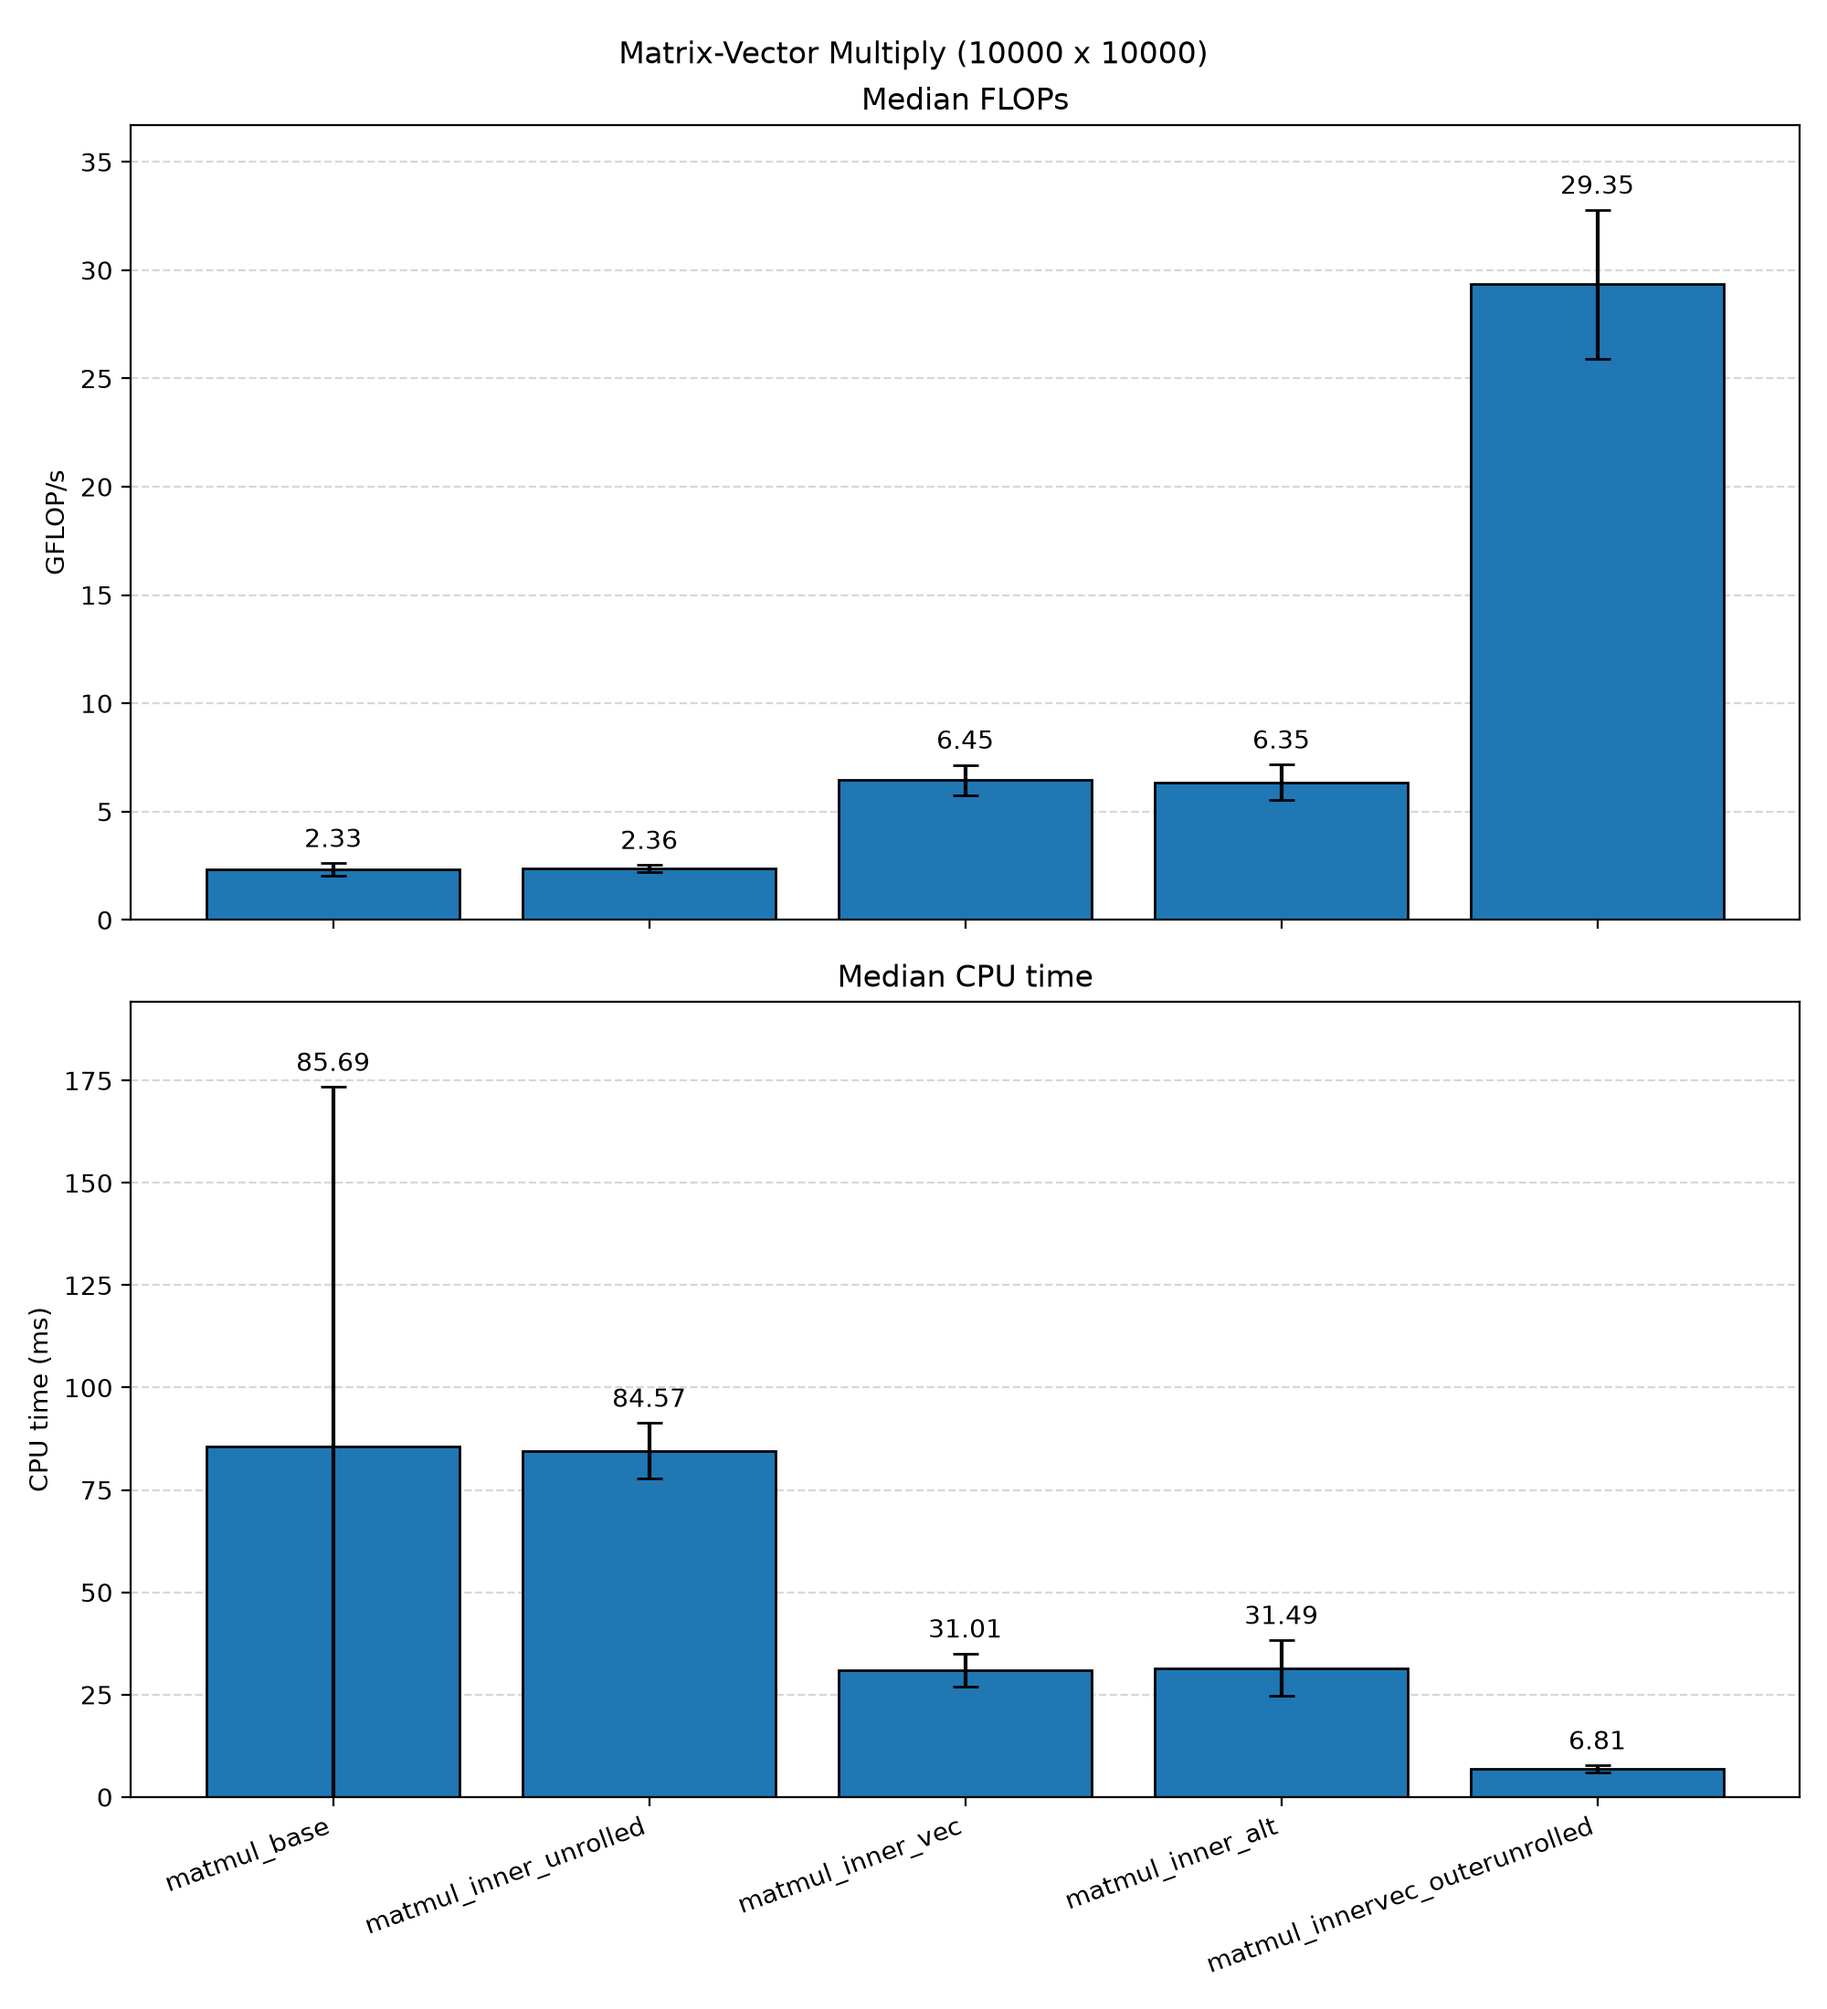
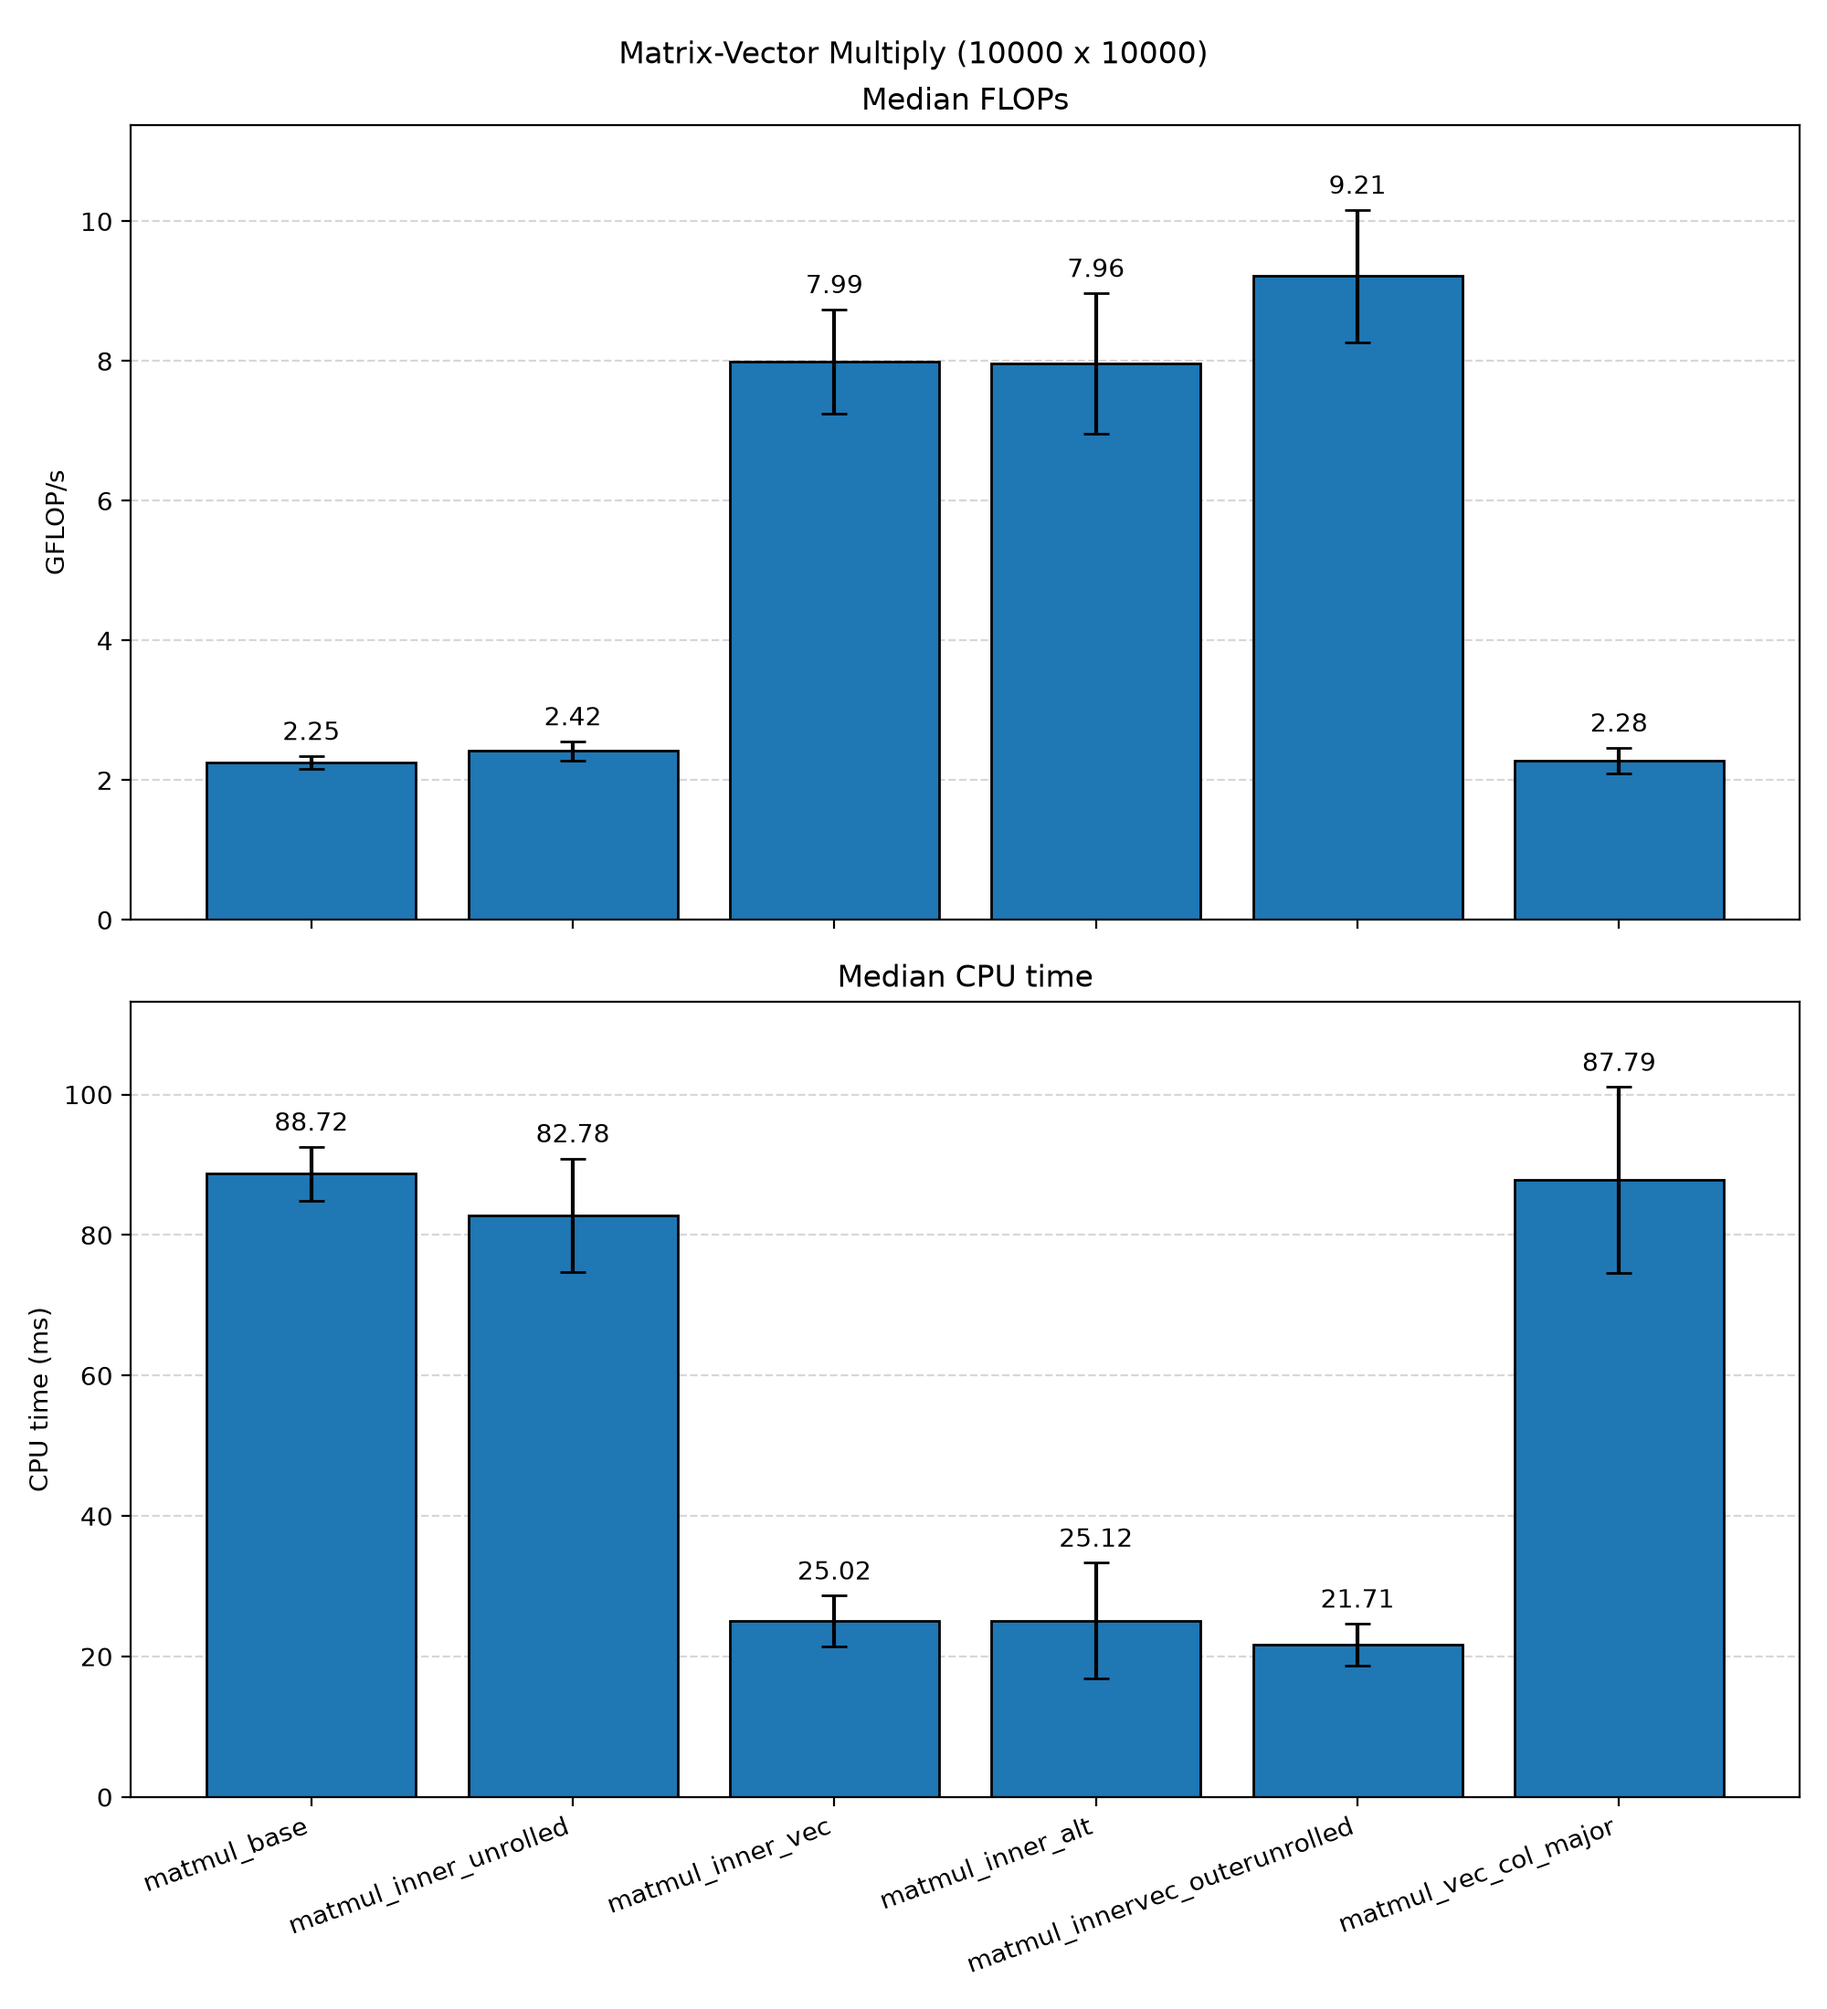
Tests + outer vectorization + fix other funcs

diff --git a/src/matrix_vec.cpp b/src/matrix_vec.cpp
@@ -1,6 +1,17 @@
 #include <immintrin.h>
 #include "matrix_vec.h"
 
+#include <vector>
+
+// inline __attribute__((always_inline)) float horzsum256(__m256 s) {
+//     // https://stackoverflow.com/questions/13219146/how-to-sum-m256-horizontally
+//     auto s2 = _mm256_permute2f128_ps(s , s , 1);
+//     s = _mm256_add_ps(s, s2);
+//     s = _mm256_hadd_ps(s, s);
+//     s = _mm256_hadd_ps(s, s);
+//     return _mm_cvtss_f32(_mm256_castps256_ps128(s));
+// }
+
 // Base unvectorized implementation
 void matmul_base(const float* A, const float* x, float* y, int m, int n) {
     for (int i = 0; i < m; i++) {
@@ -49,9 +60,11 @@ void matmul_inner_vec(const float* A, const float* x, float* y, int m, int n) {
         }
 
         // Horizontal sum of 8 elements
-        __m256 t = _mm256_hadd_ps(sum, sum);
-        t = _mm256_hadd_ps(t, t);
-        y[i] = _mm_cvtss_f32(_mm256_castps256_ps128(t));
+        auto s2 = _mm256_permute2f128_ps(sum, sum, 1);
+        sum = _mm256_add_ps(sum, s2);
+        sum = _mm256_hadd_ps(sum, sum);
+        sum = _mm256_hadd_ps(sum, sum);
+        y[i] = _mm_cvtss_f32(_mm256_castps256_ps128(sum));
 
         // Scalar remainder
         for (; j < n; j++) {
@@ -72,9 +85,11 @@ void matmul_inner_alt(const float* A, const float* x, float* y, int m, int n) {
             sum = _mm256_fmadd_ps(a_vec, x_vec, sum);
         }
 
-        __m256 t = _mm256_hadd_ps(sum, sum);
-        t = _mm256_hadd_ps(t, t);
-        y[i] = _mm_cvtss_f32(_mm256_castps256_ps128(t));
+        auto s2 = _mm256_permute2f128_ps(sum, sum, 1);
+        sum = _mm256_add_ps(sum, s2);
+        sum = _mm256_hadd_ps(sum, sum);
+        sum = _mm256_hadd_ps(sum, sum);
+        y[i] = _mm_cvtss_f32(_mm256_castps256_ps128(sum));
 
         for (; j < n; j++) {
             y[i] += A[i * n + j] * x[j];
@@ -107,23 +122,23 @@ void matmul_innervec_outerunrolled(const float* A, const float* x, float* y, int
             s8 = _mm256_fmadd_ps(_mm256_loadu_ps(&A[(row+7)*n+col]), vx, s8);
         }
 
-        __m256 t1 = _mm256_hadd_ps(s1, s1); t1 = _mm256_hadd_ps(t1, t1);
-        __m256 t2 = _mm256_hadd_ps(s2, s2); t2 = _mm256_hadd_ps(t2, t2);
-        __m256 t3 = _mm256_hadd_ps(s3, s3); t3 = _mm256_hadd_ps(t3, t3);
-        __m256 t4 = _mm256_hadd_ps(s4, s4); t4 = _mm256_hadd_ps(t4, t4);
-        __m256 t5 = _mm256_hadd_ps(s5, s5); t5 = _mm256_hadd_ps(t5, t5);
-        __m256 t6 = _mm256_hadd_ps(s6, s6); t6 = _mm256_hadd_ps(t6, t6);
-        __m256 t7 = _mm256_hadd_ps(s7, s7); t7 = _mm256_hadd_ps(t7, t7);
-        __m256 t8 = _mm256_hadd_ps(s8, s8); t8 = _mm256_hadd_ps(t8, t8);
+        auto t1 = _mm256_permute2f128_ps(s1, s1, 1); s1 = _mm256_add_ps(s1, t1); s1 = _mm256_hadd_ps(s1, s1); s1 = _mm256_hadd_ps(s1, s1);
+        auto t2 = _mm256_permute2f128_ps(s2, s2, 1); s2 = _mm256_add_ps(s2, t2); s2 = _mm256_hadd_ps(s2, s2); s2 = _mm256_hadd_ps(s2, s2);
+        auto t3 = _mm256_permute2f128_ps(s3, s3, 1); s3 = _mm256_add_ps(s3, t3); s3 = _mm256_hadd_ps(s3, s3); s3 = _mm256_hadd_ps(s3, s3);
+        auto t4 = _mm256_permute2f128_ps(s4, s4, 1); s4 = _mm256_add_ps(s4, t4); s4 = _mm256_hadd_ps(s4, s4); s4 = _mm256_hadd_ps(s4, s4);
+        auto t5 = _mm256_permute2f128_ps(s5, s5, 1); s5 = _mm256_add_ps(s5, t5); s5 = _mm256_hadd_ps(s5, s5); s5 = _mm256_hadd_ps(s5, s5);
+        auto t6 = _mm256_permute2f128_ps(s6, s6, 1); s6 = _mm256_add_ps(s6, t6); s6 = _mm256_hadd_ps(s6, s6); s6 = _mm256_hadd_ps(s6, s6);
+        auto t7 = _mm256_permute2f128_ps(s7, s7, 1); s7 = _mm256_add_ps(s7, t7); s7 = _mm256_hadd_ps(s7, s7); s7 = _mm256_hadd_ps(s7, s7);
+        auto t8 = _mm256_permute2f128_ps(s8, s8, 1); s8 = _mm256_add_ps(s8, t8); s8 = _mm256_hadd_ps(s8, s8); s8 = _mm256_hadd_ps(s8, s8);
 
-        y[row] = _mm_cvtss_f32(_mm256_castps256_ps128(t1));
-        y[row+1] = _mm_cvtss_f32(_mm256_castps256_ps128(t2));
-        y[row+2] = _mm_cvtss_f32(_mm256_castps256_ps128(t2));
-        y[row+3] = _mm_cvtss_f32(_mm256_castps256_ps128(t2));
-        y[row+4] = _mm_cvtss_f32(_mm256_castps256_ps128(t2));
-        y[row+5] = _mm_cvtss_f32(_mm256_castps256_ps128(t2));
-        y[row+6] = _mm_cvtss_f32(_mm256_castps256_ps128(t2));
-        y[row+7] = _mm_cvtss_f32(_mm256_castps256_ps128(t2));
+        y[row] = _mm_cvtss_f32(_mm256_castps256_ps128(s1));
+        y[row+1] = _mm_cvtss_f32(_mm256_castps256_ps128(s2));
+        y[row+2] = _mm_cvtss_f32(_mm256_castps256_ps128(s3));
+        y[row+3] = _mm_cvtss_f32(_mm256_castps256_ps128(s4));
+        y[row+4] = _mm_cvtss_f32(_mm256_castps256_ps128(s5));
+        y[row+5] = _mm_cvtss_f32(_mm256_castps256_ps128(s6));
+        y[row+6] = _mm_cvtss_f32(_mm256_castps256_ps128(s7));
+        y[row+7] = _mm_cvtss_f32(_mm256_castps256_ps128(s8));
 
         for (; col < n; col++) {
             y[row] += A[row*n+col] * x[col];
@@ -144,17 +159,72 @@ void matmul_innervec_outerunrolled(const float* A, const float* x, float* y, int
             __m256 x_vec = _mm256_loadu_ps(&x[j]);
             sum = _mm256_fmadd_ps(a_vec, x_vec, sum);
         }
-        __m256 t = _mm256_hadd_ps(sum, sum);
-        t = _mm256_hadd_ps(t, t);
-        y[row] += _mm_cvtss_f32(_mm256_castps256_ps128(t));
+        auto s2 = _mm256_permute2f128_ps(sum, sum, 1);
+        sum = _mm256_add_ps(sum, s2);
+        sum = _mm256_hadd_ps(sum, sum);
+        sum = _mm256_hadd_ps(sum, sum);
+        y[row] += _mm_cvtss_f32(_mm256_castps256_ps128(sum));
         for (; j < n; j++) { y[row] += A[row * n + j] * x[j]; }
     }
 }
 
-// maybe could use _mm256_maddubs_epi16 , but doesn't exist for floats
-// _mm256_stream_ps to load by row?
+
+void matmul_vec_outer_vec(const float* A, const float* x, float* y, int m, int n) {
+    // do 8 rows at a time, but each column iteratively
+    int row = 0;
+    for (; row < m - m % 8; row += 8) {   
+        __m256 sum = _mm256_setzero_ps();
+        __m256 vx = _mm256_loadu_ps(&x[row]);
+        __m256i gather_offsets = _mm256_set_epi32(
+            row*n,
+            (row+1)*n,
+            (row+2)*n,
+            (row+3)*n,
+            (row+4)*n,
+            (row+5)*n,
+            (row+6)*n,
+            (row+7)*n
+        );
+
+        for (int col = 0; col < n; col++) {
+
+            __m256i col_idx = _mm256_set1_epi32(col);
+            __m256i idxs = _mm256_add_epi32(col_idx, gather_offsets);
+
+            __m256 va = _mm256_i32gather_ps(A, idxs, sizeof(float));
+            sum = _mm256_fmadd_ps(va, vx, sum);
+        }
+
+        _mm256_storeu_ps(&y[row], sum);
+    }
+
+    // clean up the rest
+    for (int i = row; i < m; i++) {
+        y[i] = 0.0f;
+        for (int j = 0; j < n; j++) {
+            y[i] += A[i * n + j] * x[j];
+        }
+    }
+}
 
 // 2D vectorization (SIMD on both i and j)
 void matmul_2d_vec(const float* A, const float* x, float* y, int m, int n) {
 
 }
+
+
+
+// for j := 0-7
+//     i := j * 32 (0, 32, 64, 96, 128, ...)
+//     m := id_t
+
+//     addr := A + 
+
+//     dst[i+31:i] := MEM[base_addr + SignExtend(vindex[i+31:i])*scale]
+
+// dst[i+31:i] := MEM[base_addr + SignExtend(vindex[i+31:i])*scale]
+
+
+
+
+// _mm256_i32gather_ps(A[i], idx, 8);

diff --git a/mat_vec_driver.cpp b/mat_vec_driver.cpp
@@ -1,10 +1,26 @@
 #include <benchmark/benchmark.h>
 #include <vector>
+#include <iostream>
 #include "matrix_vec.h"
 
 #define M 10000
 #define N 10000
 #define RUNS 100
+
+typedef void (*MatmulFunc)(const float*, const float*, float*, int, int);
+
+void test_matmul(std::string name, MatmulFunc f, const std::vector<float>& A, const std::vector<float>& x, int m, int n, const std::vector<float>& expected)  {
+    std::vector<float> result;
+    result.resize(expected.size());
+    f(A.data(), x.data(), result.data(), m, n);
+    for (int i = 0; i < expected.size(); i++) {
+        auto diff = std::abs(result[i] - expected[i]);
+        if (diff > 10.0) {
+            std::cerr << name << " failed! " << result[i] << " != " << expected[i] << " @ " << i << "\n";
+            return;
+        }
+    }
+}
 
 #define DEFINE_BENCHMARK(func) \
     static void BM_##func##_(benchmark::State& state) { \
@@ -25,5 +41,40 @@ DEFINE_BENCHMARK(matmul_inner_unrolled)
 DEFINE_BENCHMARK(matmul_inner_vec)
 DEFINE_BENCHMARK(matmul_inner_alt)
 DEFINE_BENCHMARK(matmul_innervec_outerunrolled)
+DEFINE_BENCHMARK(matmul_vec_outer_vec)
 
-BENCHMARK_MAIN();
+int main(int argc, char** argv) { 
+    char arg0_default[] = "benchmark"; 
+    char* args_default = arg0_default; 
+    if (!argv) { 
+        argc = 1; 
+        argv = &args_default; 
+    } 
+
+    // test funcs, not using gtest but its ok
+    std::vector<float> A(M * N), x(N), y(M); \
+    for (int i = 0; i < M * N; i++) {
+        float r = 1.2f;//static_cast<float>(rand()) / static_cast<float>(RAND_MAX);
+        A[i] = r;
+    }
+    for (int i = 0; i < N; i++) {
+        float r = 2.0f;//static_cast<float>(rand()) / static_cast<float>(RAND_MAX);
+        x[i] = r;
+        y[i] = 0.0f;
+    }
+    matmul_base(A.data(), x.data(), y.data(), M, N);
+
+    test_matmul("base", matmul_base, A, x, M, N, y);
+    test_matmul("inner unrolled", matmul_inner_unrolled, A, x, M, N, y);
+    test_matmul("inner vec", matmul_inner_vec, A, x, M, N, y);
+    test_matmul("inner alt", matmul_inner_alt, A, x, M, N, y);
+    test_matmul("inner vec + outer unrolled", matmul_innervec_outerunrolled, A, x, M, N, y);
+    test_matmul("outer vec", matmul_vec_outer_vec, A, x, M, N, y);
+
+    ::benchmark::Initialize(&argc, argv); 
+    if (::benchmark::ReportUnrecognizedArguments(argc, argv)) 
+        return 1; 
+    ::benchmark::RunSpecifiedBenchmarks(); 
+    ::benchmark::Shutdown(); 
+    return 0; 
+} int main(int, char**);

diff --git a/include/matrix_vec.h b/include/matrix_vec.h
@@ -14,7 +14,7 @@ void matmul_2d_vec(const float* A, const float* x, float* y, int m, int n);
 void matmul_inner_unrolled(const float* A, const float* x, float* y, int m, int n);
 void matmul_inner_alt(const float* A, const float* x, float* y, int m, int n);
 void matmul_innervec_outerunrolled(const float* A, const float* x, float* y, int m, int n);
-
+void matmul_vec_outer_vec(const float* A, const float* x, float* y, int m, int n);
 
 #endif // MATRIX_VEC_H
 
